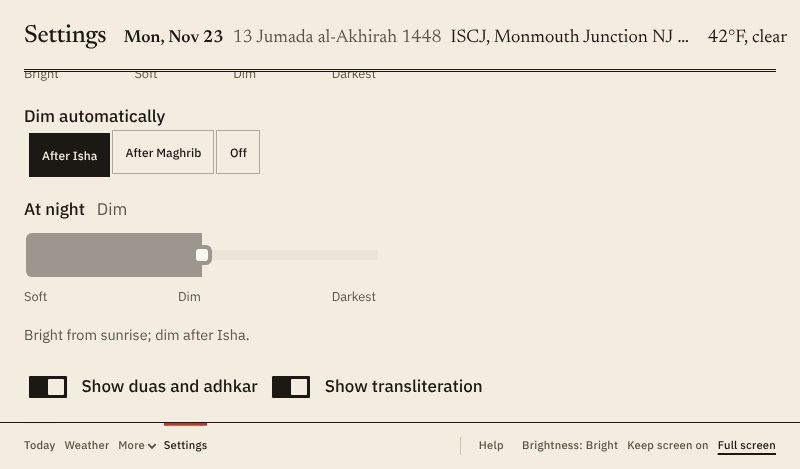
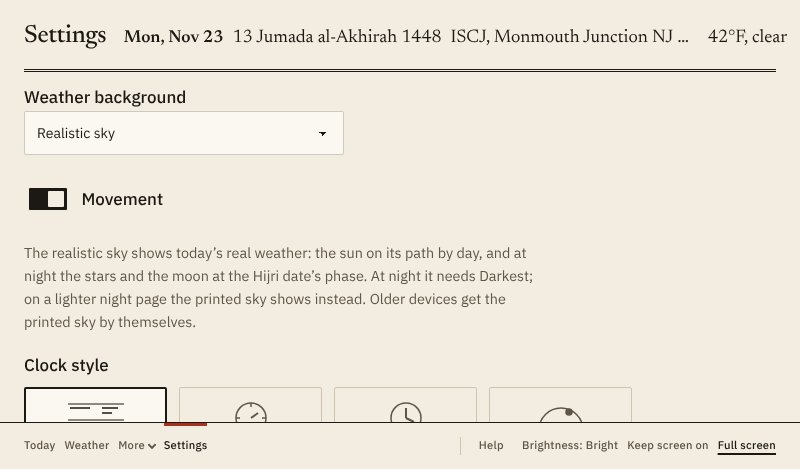
Guide: Display chapter for the new settings, E-ink and Black
- New screenshots (800x469): the top of Display (four looks, Brightness by
  day), At night (Brightness at night, Night starts, the plain-words line),
  Weather background and Movement, the clock options (Larger number, Show
  seconds, duas); and the E-ink look by day and at night
- Text follows the new controls; a section on E-ink; a section on Black (no
  light): 30 s after the last touch, a tap or the remote's OK shows the times,
  alerts light the screen and keep working; a note that OLED screens give no
  light while LCD screens (Fire, most tablets) still glow faintly, so turn the
  device's own brightness down too
- Good to know: burn-in care in one line
- Help chapter: "Brightness at night" replaces "Dim automatically"
- Pins placed beside the controls from the page's own element positions;
  cache iqama-v58

Claude-Session: https://claude.ai/code/session_01XcbEMSBHqonumVRiWc1ZiV

diff --git a/guide/display.html b/guide/display.html
@@ -36,24 +36,47 @@
 </div>
 
 <h2>Look and brightness</h2>
-<figure class="g-shot"><a class="g-shot-frame g-crop" href="img/display-top.jpg" style="aspect-ratio:422/247"><img src="img/display-top.jpg" alt="Settings, Display: the six clock style buttons, three round swatches for the look, and the Brightness now slider set to Bright." width="800" height="469" loading="lazy" decoding="async" style="position:absolute;max-width:none;width:189.57%;left:-3.08%;top:-45.34%"><span class="g-pin" style="--x:21.33%;--y:8.91%" aria-hidden="true">1</span><span class="g-pin" style="--x:18.01%;--y:63.56%" aria-hidden="true">2</span><span class="g-pin" style="--x:35.55%;--y:92.31%" aria-hidden="true">3</span></a><figcaption>The top of the Display page. <span class="g-zoom">(tap to see the whole screen)</span></figcaption></figure>
+<figure class="g-shot"><a class="g-shot-frame g-crop" href="img/display-top.jpg" style="aspect-ratio:547/274"><img src="img/display-top.jpg" alt="Settings, Display: four looks, Printed timetable, E-ink, Handwritten and High contrast, then the Brightness by day slider set to Bright." width="800" height="469" loading="lazy" decoding="async" style="position:absolute;max-width:none;width:146.25%;left:-2.38%;top:-27.74%"><span class="g-pin" style="--x:83.55%;--y:32.48%" aria-hidden="true">1</span><span class="g-pin" style="--x:70.75%;--y:79.2%" aria-hidden="true">2</span></a><figcaption>The top of the Display page. <span class="g-zoom">(tap to see the whole screen)</span></figcaption></figure>
 <ol class="g-steps">
-<li><strong>Clock style</strong>: the six styles above.</li>
-<li><strong>Look</strong>: <em>Printed timetable</em> (paper and ink), <em>Handwritten</em> (blue pen on a ruled sheet), or <em>High contrast</em> (black and white, easiest to read from afar).</li>
-<li><strong>Brightness now</strong>: Bright, Soft, Dim or Darkest. The <span class="g-ui">Brightness</span> button at the bottom right of every screen does the same.</li>
+<li><strong>Look</strong>: <em>Printed timetable</em> (paper and ink, with the weather sky behind), <em>E-ink</em> (grey paper and black ink, nothing moves), <em>Handwritten</em> (blue pen on a ruled sheet), or <em>High contrast</em> (black and white, easiest to read from afar).</li>
+<li><strong>Brightness by day</strong>: Bright, Soft, Dim or Darkest. The <span class="g-ui">Brightness</span> button at the bottom right of every screen changes it for now, until night starts or ends.</li>
 </ol>
 
-<h2>Night, duas and full screen</h2>
-<figure class="g-shot"><a class="g-shot-frame g-crop" href="img/display-dim.jpg" style="aspect-ratio:547/320"><img src="img/display-dim.jpg" alt="Dim automatically set to After Isha, the At night slider set to Dim, and the Show duas and adhkar and Show transliteration switches." width="800" height="469" loading="lazy" decoding="async" style="position:absolute;max-width:none;width:146.25%;left:-2.38%;top:-28.13%"><span class="g-pin" style="--x:50.64%;--y:20.31%" aria-hidden="true">1</span><span class="g-pin" style="--x:70.75%;--y:51.56%" aria-hidden="true">2</span><span class="g-pin" style="--x:92.69%;--y:92.81%" aria-hidden="true">3</span></a><figcaption>Further down the Display page. <span class="g-zoom">(tap to see the whole screen)</span></figcaption></figure>
+<h3>The E-ink look</h3>
+<div class="g-gallery">
+<figure class="g-shot"><a class="g-shot-frame" href="img/look-eink.jpg"><img src="img/look-eink.jpg" alt="The Today screen in the E-ink look by day: grey paper, black type, the next prayer in a black column, no colour and no sky." width="800" height="469" loading="lazy" decoding="async"></a><figcaption><strong>By day</strong>: grey paper and black ink, with no colour. <span class="g-zoom">(tap to see the whole screen)</span></figcaption></figure>
+<figure class="g-shot"><a class="g-shot-frame" href="img/look-eink-night.jpg"><img src="img/look-eink-night.jpg" alt="The Today screen in the E-ink look at night: black, with grey type and the next prayer between two grey lines." width="800" height="469" loading="lazy" decoding="async"></a><figcaption><strong>At night</strong>: black, with grey type and nothing bright. <span class="g-zoom">(tap to see the whole screen)</span></figcaption></figure>
+</div>
+<p>E-ink is the calmest look, easy on the eyes. There is no colour and no weather picture, and nothing moves: every change happens at once, like a page on an e-ink reader. In the last 15 minutes before a prayer the countdown turns into a black label by day and an outlined box at night, without flashing.</p>
+
+<h2>At night</h2>
+<figure class="g-shot"><a class="g-shot-frame g-crop" href="img/display-night.jpg" style="aspect-ratio:547/224"><img src="img/display-night.jpg" alt="Brightness at night set to Darkest, Night starts set to After Isha, and the line: Bright from sunrise; darkest from Isha until sunrise." width="800" height="469" loading="lazy" decoding="async" style="position:absolute;max-width:none;width:146.25%;left:-2.38%;top:-33.93%"><span class="g-pin" style="--x:65.27%;--y:29.46%" aria-hidden="true">1</span><span class="g-pin" style="--x:40.59%;--y:69.64%" aria-hidden="true">2</span><span class="g-pin" style="--x:66.18%;--y:92.86%" aria-hidden="true">3</span></a><figcaption>Further down the Display page. <span class="g-zoom">(tap to see the whole screen)</span></figcaption></figure>
 <ol class="g-steps">
-<li><strong>Dim automatically</strong>: <em>After Isha</em>, <em>After Maghrib</em>, or <em>Off</em>. The screen goes bright again at sunrise.</li>
-<li><strong>At night</strong>: how dim it goes: Soft, Dim or Darkest.</li>
-<li><strong>Show duas and adhkar</strong> and <strong>Show transliteration</strong> turn the dua on the Today screen, and its English letters, on or off.</li>
+<li><strong>Brightness at night</strong>: <em>Same as by day</em>, <em>Soft</em>, <em>Dim</em>, <em>Darkest</em>, or <em>Black (no light)</em>.</li>
+<li><strong>Night starts</strong>: <em>After Maghrib</em> or <em>After Isha</em>. The screen goes back to the day’s brightness at sunrise.</li>
+<li><strong>The line underneath</strong> says what will happen, in plain words.</li>
 </ol>
-<figure class="g-shot"><a class="g-shot-frame g-crop" href="img/display-more.jpg" style="aspect-ratio:547/320"><img src="img/display-more.jpg" alt="The Weather background drop-down set to Printed by day, realistic sky at night, and the Larger number on the clock drop-down set to Automatic: countdown on small screens." width="800" height="469" loading="lazy" decoding="async" style="position:absolute;max-width:none;width:146.25%;left:-2.38%;top:-25%"><span class="g-pin" style="--x:65.27%;--y:19.38%" aria-hidden="true">1</span><span class="g-pin" style="--x:65.27%;--y:70.63%" aria-hidden="true">2</span></a><figcaption>Further down again. <span class="g-zoom">(tap to see the whole screen)</span></figcaption></figure>
+<h3>Black (no light)</h3>
+<p>With <em>Black</em>, the whole screen goes black at night, 30 seconds after the last touch. Tap the screen, or press a key or the remote’s OK button, to see the times for 30 seconds; that tap does nothing else. When an alert comes, the screen lights up to show it, with <span class="g-ui">Stop</span> while a sound plays. Alerts keep working all night, because the app stays awake.</p>
+<div class="g-note">
+<h3>Black on your screen</h3>
+<ul>
+<li>On most phones and many TVs (OLED screens), black pixels are switched off, so <em>Black</em> gives no light at all.</li>
+<li>On LCD screens, such as Fire tablets and most other tablets, the backlight still glows faintly behind the black, and a web page cannot turn it off. Turn the device’s own brightness down at night too; many tablets can do that on a schedule.</li>
+</ul>
+</div>
+
+<h2>Weather background and clock</h2>
+<figure class="g-shot"><a class="g-shot-frame g-crop" href="img/display-dim.jpg" style="aspect-ratio:547/264"><img src="img/display-dim.jpg" alt="The Weather background drop-down set to Realistic sky, the Movement switch on, and the note about the realistic sky." width="800" height="469" loading="lazy" decoding="async" style="position:absolute;max-width:none;width:146.25%;left:-2.38%;top:-28.79%"><span class="g-pin" style="--x:65.27%;--y:21.59%" aria-hidden="true">1</span><span class="g-pin" style="--x:32.36%;--y:46.59%" aria-hidden="true">2</span></a><figcaption>Further down again. <span class="g-zoom">(tap to see the whole screen)</span></figcaption></figure>
 <ol class="g-steps">
-<li><strong>Weather background</strong> shows today’s weather moving along the top of the page. <em>Realistic sky</em> (the usual choice) draws the real sky: the sun on its path from sunrise to Maghrib, clouds drifting with the wind, rain and snow as heavy as they really are, fog, a soft glow behind the clouds in a storm, and at night the stars and the moon at the phase of the Hijri date. From Maghrib to sunrise the page turns to its dark look so the times stay easy to read. <em>Printed, moving</em> draws the same weather in ink; <em>Printed, still</em> keeps it still; <em>Off</em> leaves plain paper. Older tablets, and devices set to reduce motion, get a lighter version by themselves. There is no sky in the Handwritten and High contrast looks.</li>
+<li><strong>Weather background</strong>, in the Printed timetable look. <em>Realistic sky</em> (the usual choice) draws today’s real sky: the sun on its path from sunrise to Maghrib, clouds drifting with the wind, rain and snow as heavy as they really are, fog, a soft glow behind the clouds in a storm, and at night the stars and the moon at the phase of the Hijri date. The night sky shows at <em>Darkest</em>; on a lighter night page the printed sky shows instead. <em>Printed</em> draws the same weather in ink, and <em>Off</em> leaves plain paper. Older tablets get the printed sky by themselves.</li>
+<li><strong>Movement</strong>: turn it off to keep the picture still.</li>
+</ol>
+<figure class="g-shot"><a class="g-shot-frame g-crop" href="img/display-more.jpg" style="aspect-ratio:687/209"><img src="img/display-more.jpg" alt="Larger number on the clock set to Automatic: countdown on small screens, then the Show seconds, Show duas and adhkar and Show transliteration switches." width="800" height="469" loading="lazy" decoding="async" style="position:absolute;max-width:none;width:116.45%;left:-1.89%;top:-36.36%"><span class="g-pin" style="--x:51.97%;--y:26.79%" aria-hidden="true">1</span><span class="g-pin" style="--x:5.09%;--y:76.56%" aria-hidden="true">2</span><span class="g-pin" style="--x:31%;--y:76.56%" aria-hidden="true">3</span></a><figcaption>The clock options. <span class="g-zoom">(tap to see the whole screen)</span></figcaption></figure>
+<ol class="g-steps">
 <li><strong>Larger number on the clock</strong>, for the Masjid board: <em>Automatic</em> shows the countdown large on phones and small tablets and the time large on bigger screens, or choose <em>The time now</em> or <em>The countdown to the next prayer</em> to keep one. <span class="g-ui">Bigger clock</span> and <span class="g-ui">Bigger countdown</span> on the Today screen do the same.</li>
+<li><strong>Show seconds</strong>: on by default. Turn it off for a calmer screen; the countdown then shows whole minutes, such as <em>22m</em>.</li>
+<li><strong>Show duas and adhkar</strong> and <strong>Show transliteration</strong> turn the dua on the Today screen, and its English letters, on or off.</li>
 </ol>
 <p>Under <span class="g-ui">More display options</span>:</p>
 <ul>
@@ -65,7 +88,7 @@
 <h3>Good to know</h3>
 <ul>
 <li><strong>Arabic text size</strong> (Small, Medium, Large) is at the bottom of the page, with <strong>Keep screen on</strong>.</li>
-<li>A web page cannot turn down the tablet’s backlight. Dim and Darkest darken the page itself. For a darker room, lower the tablet’s own brightness too.</li>
+<li><strong>Screen burn-in</strong>: while the screen is kept on, the page moves a few pixels every 2 minutes, and at night the lines that never move fade, so nothing stays lit in one place.</li>
 </ul>
 </div>
 <nav class="g-pager" aria-label="Previous and next chapter"><a class="g-prev" href="alerts" rel="prev"><small>Previous</small><span>Adhan and alerts</span></a><a class="g-next" href="quran" rel="next"><small>Next · 7</small><span>Quran</span></a></nav>

diff --git a/scripts/guide/chapters/display.html b/scripts/guide/chapters/display.html
@@ -12,24 +12,47 @@
 </div>
 
 <h2>Look and brightness</h2>
-<shot src="display-top.jpg" alt="Settings, Display: the six clock style buttons, three round swatches for the look, and the Brightness now slider set to Bright." crop="13,112,435,359" pins="1@103,134 2@89,269 3@163,340">The top of the Display page.</shot>
+<shot src="display-top.jpg" alt="Settings, Display: four looks, Printed timetable, E-ink, Handwritten and High contrast, then the Brightness by day slider set to Bright." crop="13,76,560,350" pins="1@470,165 2@400,293">The top of the Display page.</shot>
 <ol class="g-steps">
-<li><strong>Clock style</strong>: the six styles above.</li>
-<li><strong>Look</strong>: <em>Printed timetable</em> (paper and ink), <em>Handwritten</em> (blue pen on a ruled sheet), or <em>High contrast</em> (black and white, easiest to read from afar).</li>
-<li><strong>Brightness now</strong>: Bright, Soft, Dim or Darkest. The <span class="g-ui">Brightness</span> button at the bottom right of every screen does the same.</li>
+<li><strong>Look</strong>: <em>Printed timetable</em> (paper and ink, with the weather sky behind), <em>E-ink</em> (grey paper and black ink, nothing moves), <em>Handwritten</em> (blue pen on a ruled sheet), or <em>High contrast</em> (black and white, easiest to read from afar).</li>
+<li><strong>Brightness by day</strong>: Bright, Soft, Dim or Darkest. The <span class="g-ui">Brightness</span> button at the bottom right of every screen changes it for now, until night starts or ends.</li>
 </ol>
 
-<h2>Night, duas and full screen</h2>
-<shot src="display-dim.jpg" alt="Dim automatically set to After Isha, the At night slider set to Dim, and the Show duas and adhkar and Show transliteration switches." crop="13,90,560,410" pins="1@290,155 2@400,255 3@520,387">Further down the Display page.</shot>
+<h3>The E-ink look</h3>
+<div class="g-gallery">
+<shot src="look-eink.jpg" alt="The Today screen in the E-ink look by day: grey paper, black type, the next prayer in a black column, no colour and no sky."><strong>By day</strong>: grey paper and black ink, with no colour.</shot>
+<shot src="look-eink-night.jpg" alt="The Today screen in the E-ink look at night: black, with grey type and the next prayer between two grey lines."><strong>At night</strong>: black, with grey type and nothing bright.</shot>
+</div>
+<p>E-ink is the calmest look, easy on the eyes. There is no colour and no weather picture, and nothing moves: every change happens at once, like a page on an e-ink reader. In the last 15 minutes before a prayer the countdown turns into a black label by day and an outlined box at night, without flashing.</p>
+
+<h2>At night</h2>
+<shot src="display-night.jpg" alt="Brightness at night set to Darkest, Night starts set to After Isha, and the line: Bright from sunrise; darkest from Isha until sunrise." crop="13,76,560,300" pins="1@370,142 2@235,232 3@375,284">Further down the Display page.</shot>
 <ol class="g-steps">
-<li><strong>Dim automatically</strong>: <em>After Isha</em>, <em>After Maghrib</em>, or <em>Off</em>. The screen goes bright again at sunrise.</li>
-<li><strong>At night</strong>: how dim it goes: Soft, Dim or Darkest.</li>
-<li><strong>Show duas and adhkar</strong> and <strong>Show transliteration</strong> turn the dua on the Today screen, and its English letters, on or off.</li>
+<li><strong>Brightness at night</strong>: <em>Same as by day</em>, <em>Soft</em>, <em>Dim</em>, <em>Darkest</em>, or <em>Black (no light)</em>.</li>
+<li><strong>Night starts</strong>: <em>After Maghrib</em> or <em>After Isha</em>. The screen goes back to the day’s brightness at sunrise.</li>
+<li><strong>The line underneath</strong> says what will happen, in plain words.</li>
 </ol>
-<shot src="display-more.jpg" alt="The Weather background drop-down set to Printed by day, realistic sky at night, and the Larger number on the clock drop-down set to Automatic: countdown on small screens." crop="13,80,560,400" pins="1@370,142 2@370,306">Further down again.</shot>
+<h3>Black (no light)</h3>
+<p>With <em>Black</em>, the whole screen goes black at night, 30 seconds after the last touch. Tap the screen, or press a key or the remote’s OK button, to see the times for 30 seconds; that tap does nothing else. When an alert comes, the screen lights up to show it, with <span class="g-ui">Stop</span> while a sound plays. Alerts keep working all night, because the app stays awake.</p>
+<div class="g-note">
+<h3>Black on your screen</h3>
+<ul>
+<li>On most phones and many TVs (OLED screens), black pixels are switched off, so <em>Black</em> gives no light at all.</li>
+<li>On LCD screens, such as Fire tablets and most other tablets, the backlight still glows faintly behind the black, and a web page cannot turn it off. Turn the device’s own brightness down at night too; many tablets can do that on a schedule.</li>
+</ul>
+</div>
+
+<h2>Weather background and clock</h2>
+<shot src="display-dim.jpg" alt="The Weather background drop-down set to Realistic sky, the Movement switch on, and the note about the realistic sky." crop="13,76,560,340" pins="1@370,133 2@190,199">Further down again.</shot>
 <ol class="g-steps">
-<li><strong>Weather background</strong> shows today’s weather moving along the top of the page. <em>Realistic sky</em> (the usual choice) draws the real sky: the sun on its path from sunrise to Maghrib, clouds drifting with the wind, rain and snow as heavy as they really are, fog, a soft glow behind the clouds in a storm, and at night the stars and the moon at the phase of the Hijri date. From Maghrib to sunrise the page turns to its dark look so the times stay easy to read. <em>Printed, moving</em> draws the same weather in ink; <em>Printed, still</em> keeps it still; <em>Off</em> leaves plain paper. Older tablets, and devices set to reduce motion, get a lighter version by themselves. There is no sky in the Handwritten and High contrast looks.</li>
+<li><strong>Weather background</strong>, in the Printed timetable look. <em>Realistic sky</em> (the usual choice) draws today’s real sky: the sun on its path from sunrise to Maghrib, clouds drifting with the wind, rain and snow as heavy as they really are, fog, a soft glow behind the clouds in a storm, and at night the stars and the moon at the phase of the Hijri date. The night sky shows at <em>Darkest</em>; on a lighter night page the printed sky shows instead. <em>Printed</em> draws the same weather in ink, and <em>Off</em> leaves plain paper. Older tablets get the printed sky by themselves.</li>
+<li><strong>Movement</strong>: turn it off to keep the picture still.</li>
+</ol>
+<shot src="display-more.jpg" alt="Larger number on the clock set to Automatic: countdown on small screens, then the Show seconds, Show duas and adhkar and Show transliteration switches." crop="13,76,700,285" pins="1@370,132 2@48,236 3@226,236">The clock options.</shot>
+<ol class="g-steps">
 <li><strong>Larger number on the clock</strong>, for the Masjid board: <em>Automatic</em> shows the countdown large on phones and small tablets and the time large on bigger screens, or choose <em>The time now</em> or <em>The countdown to the next prayer</em> to keep one. <span class="g-ui">Bigger clock</span> and <span class="g-ui">Bigger countdown</span> on the Today screen do the same.</li>
+<li><strong>Show seconds</strong>: on by default. Turn it off for a calmer screen; the countdown then shows whole minutes, such as <em>22m</em>.</li>
+<li><strong>Show duas and adhkar</strong> and <strong>Show transliteration</strong> turn the dua on the Today screen, and its English letters, on or off.</li>
 </ol>
 <p>Under <span class="g-ui">More display options</span>:</p>
 <ul>
@@ -41,6 +64,6 @@
 <h3>Good to know</h3>
 <ul>
 <li><strong>Arabic text size</strong> (Small, Medium, Large) is at the bottom of the page, with <strong>Keep screen on</strong>.</li>
-<li>A web page cannot turn down the tablet’s backlight. Dim and Darkest darken the page itself. For a darker room, lower the tablet’s own brightness too.</li>
+<li><strong>Screen burn-in</strong>: while the screen is kept on, the page moves a few pixels every 2 minutes, and at night the lines that never move fade, so nothing stays lit in one place.</li>
 </ul>
 </div>

diff --git a/guide/help.html b/guide/help.html
@@ -32,7 +32,7 @@
 <tr><td>No sound at the adhan</td><td>Alerts start as <em>Message only</em>; choose a sound (<a href="alerts">chapter 5</a>). Tap the screen once after opening the app. Check the volume and that the tablet is not muted.</td></tr>
 <tr><td><span class="g-ui">Tap to enable sound</span> keeps appearing</td><td>The browser needs one tap after the app opens. Tap the button and the alert plays.</td></tr>
 <tr><td>The screen goes dark</td><td>Tap <span class="g-ui">Keep screen on</span>, and set a long screen timeout or Auto-Lock to Never (<a href="setup">chapter 1</a>).</td></tr>
-<tr><td>The page turns amber or dark at night</td><td>That is <em>Dim automatically</em>. Change or turn it off in <a href="display">chapter 6</a>, or tap <span class="g-ui">Brightness</span>.</td></tr>
+<tr><td>The page turns amber or dark at night</td><td>That is <em>Brightness at night</em>. Change it, or set it to <em>Same as by day</em>, in <a href="display">chapter 6</a>, or tap <span class="g-ui">Brightness</span> for now.</td></tr>
 <tr><td>Adhan times differ from my masjid</td><td>Check the method and Asr setting, then adjust single prayers by a few minutes (<a href="location">chapter 2</a>).</td></tr>
 <tr><td>Iqama times look old</td><td>Look at <strong>Last synced</strong> beside <span class="g-ui">Sync now</span> on the Today screen: if it stands out in colour, the masjid’s times could not be read and these are the last ones saved. Check the Wi-Fi, then tap <span class="g-ui">Sync now</span>. Away from ISCJ, set your own (<a href="iqama">chapter 4</a>).</td></tr>
 <tr><td>The timetable shows tomorrow’s times</td><td>That is meant to happen, from the Isha iqama until midnight, so the first column says <strong>Tomorrow</strong> (<a href="today">chapter 3</a>). The date at the top still shows today.</td></tr>

diff --git a/scripts/guide/chapters/help.html b/scripts/guide/chapters/help.html
@@ -8,7 +8,7 @@
 <tr><td>No sound at the adhan</td><td>Alerts start as <em>Message only</em>; choose a sound (<a href="alerts">chapter 5</a>). Tap the screen once after opening the app. Check the volume and that the tablet is not muted.</td></tr>
 <tr><td><span class="g-ui">Tap to enable sound</span> keeps appearing</td><td>The browser needs one tap after the app opens. Tap the button and the alert plays.</td></tr>
 <tr><td>The screen goes dark</td><td>Tap <span class="g-ui">Keep screen on</span>, and set a long screen timeout or Auto-Lock to Never (<a href="setup">chapter 1</a>).</td></tr>
-<tr><td>The page turns amber or dark at night</td><td>That is <em>Dim automatically</em>. Change or turn it off in <a href="display">chapter 6</a>, or tap <span class="g-ui">Brightness</span>.</td></tr>
+<tr><td>The page turns amber or dark at night</td><td>That is <em>Brightness at night</em>. Change it, or set it to <em>Same as by day</em>, in <a href="display">chapter 6</a>, or tap <span class="g-ui">Brightness</span> for now.</td></tr>
 <tr><td>Adhan times differ from my masjid</td><td>Check the method and Asr setting, then adjust single prayers by a few minutes (<a href="location">chapter 2</a>).</td></tr>
 <tr><td>Iqama times look old</td><td>Look at <strong>Last synced</strong> beside <span class="g-ui">Sync now</span> on the Today screen: if it stands out in colour, the masjid’s times could not be read and these are the last ones saved. Check the Wi-Fi, then tap <span class="g-ui">Sync now</span>. Away from ISCJ, set your own (<a href="iqama">chapter 4</a>).</td></tr>
 <tr><td>The timetable shows tomorrow’s times</td><td>That is meant to happen, from the Isha iqama until midnight, so the first column says <strong>Tomorrow</strong> (<a href="today">chapter 3</a>). The date at the top still shows today.</td></tr>

diff --git a/sw.js b/sw.js
@@ -1,6 +1,6 @@
 // Offline support for Iqama Times. Network first, so a new deploy or new iqama times show at once;
 // the cached copy is used only when the network fails.
-const CACHE = 'iqama-v57';
+const CACHE = 'iqama-v58';
 const SHELL = ['./', 'boot.js', 'fonts.css', 'fonts/newsreader-latin-opsz-normal.woff2', 'fonts/newsreader-latin-opsz-italic.woff2', 'fonts/ibm-plex-sans-latin-400-normal.woff2', 'fonts/ibm-plex-sans-latin-500-normal.woff2', 'fonts/ibm-plex-sans-latin-600-normal.woff2', 'fonts/amiri-arabic-400-normal.woff2', 'daisy.css', 'styles.css', 'look.css', 'app.js', 'logic.js', 'sky.js', 'clocks.js', 'weather.js', 'adhkar.js', 'hisn.js', 'quran.js', 'quran-logic.js', 'quran-offline.js', 'motion.js', 'tour.js', 'feedback.js', 'vendor/motion.min.js', 'lib/PrayTimes.js', 'lib/CalculationMethods.js', 'iqama.json', 'hisn-text.json', 'manifest.webmanifest', 'icon-192.png', 'icons/favicon.svg', 'favicon-32.png', 'apple-touch-icon.png',
   // the guide's pages (Cloudflare serves them without .html), so Help opens offline; its screenshots are cached as they are viewed
   'guide/', 'guide/guide.css', 'guide/guide.js', ...['setup', 'location', 'today', 'iqama', 'alerts', 'display', 'quran', 'adhkar', 'weather', 'help'].map(p => `guide/${p}`)];
